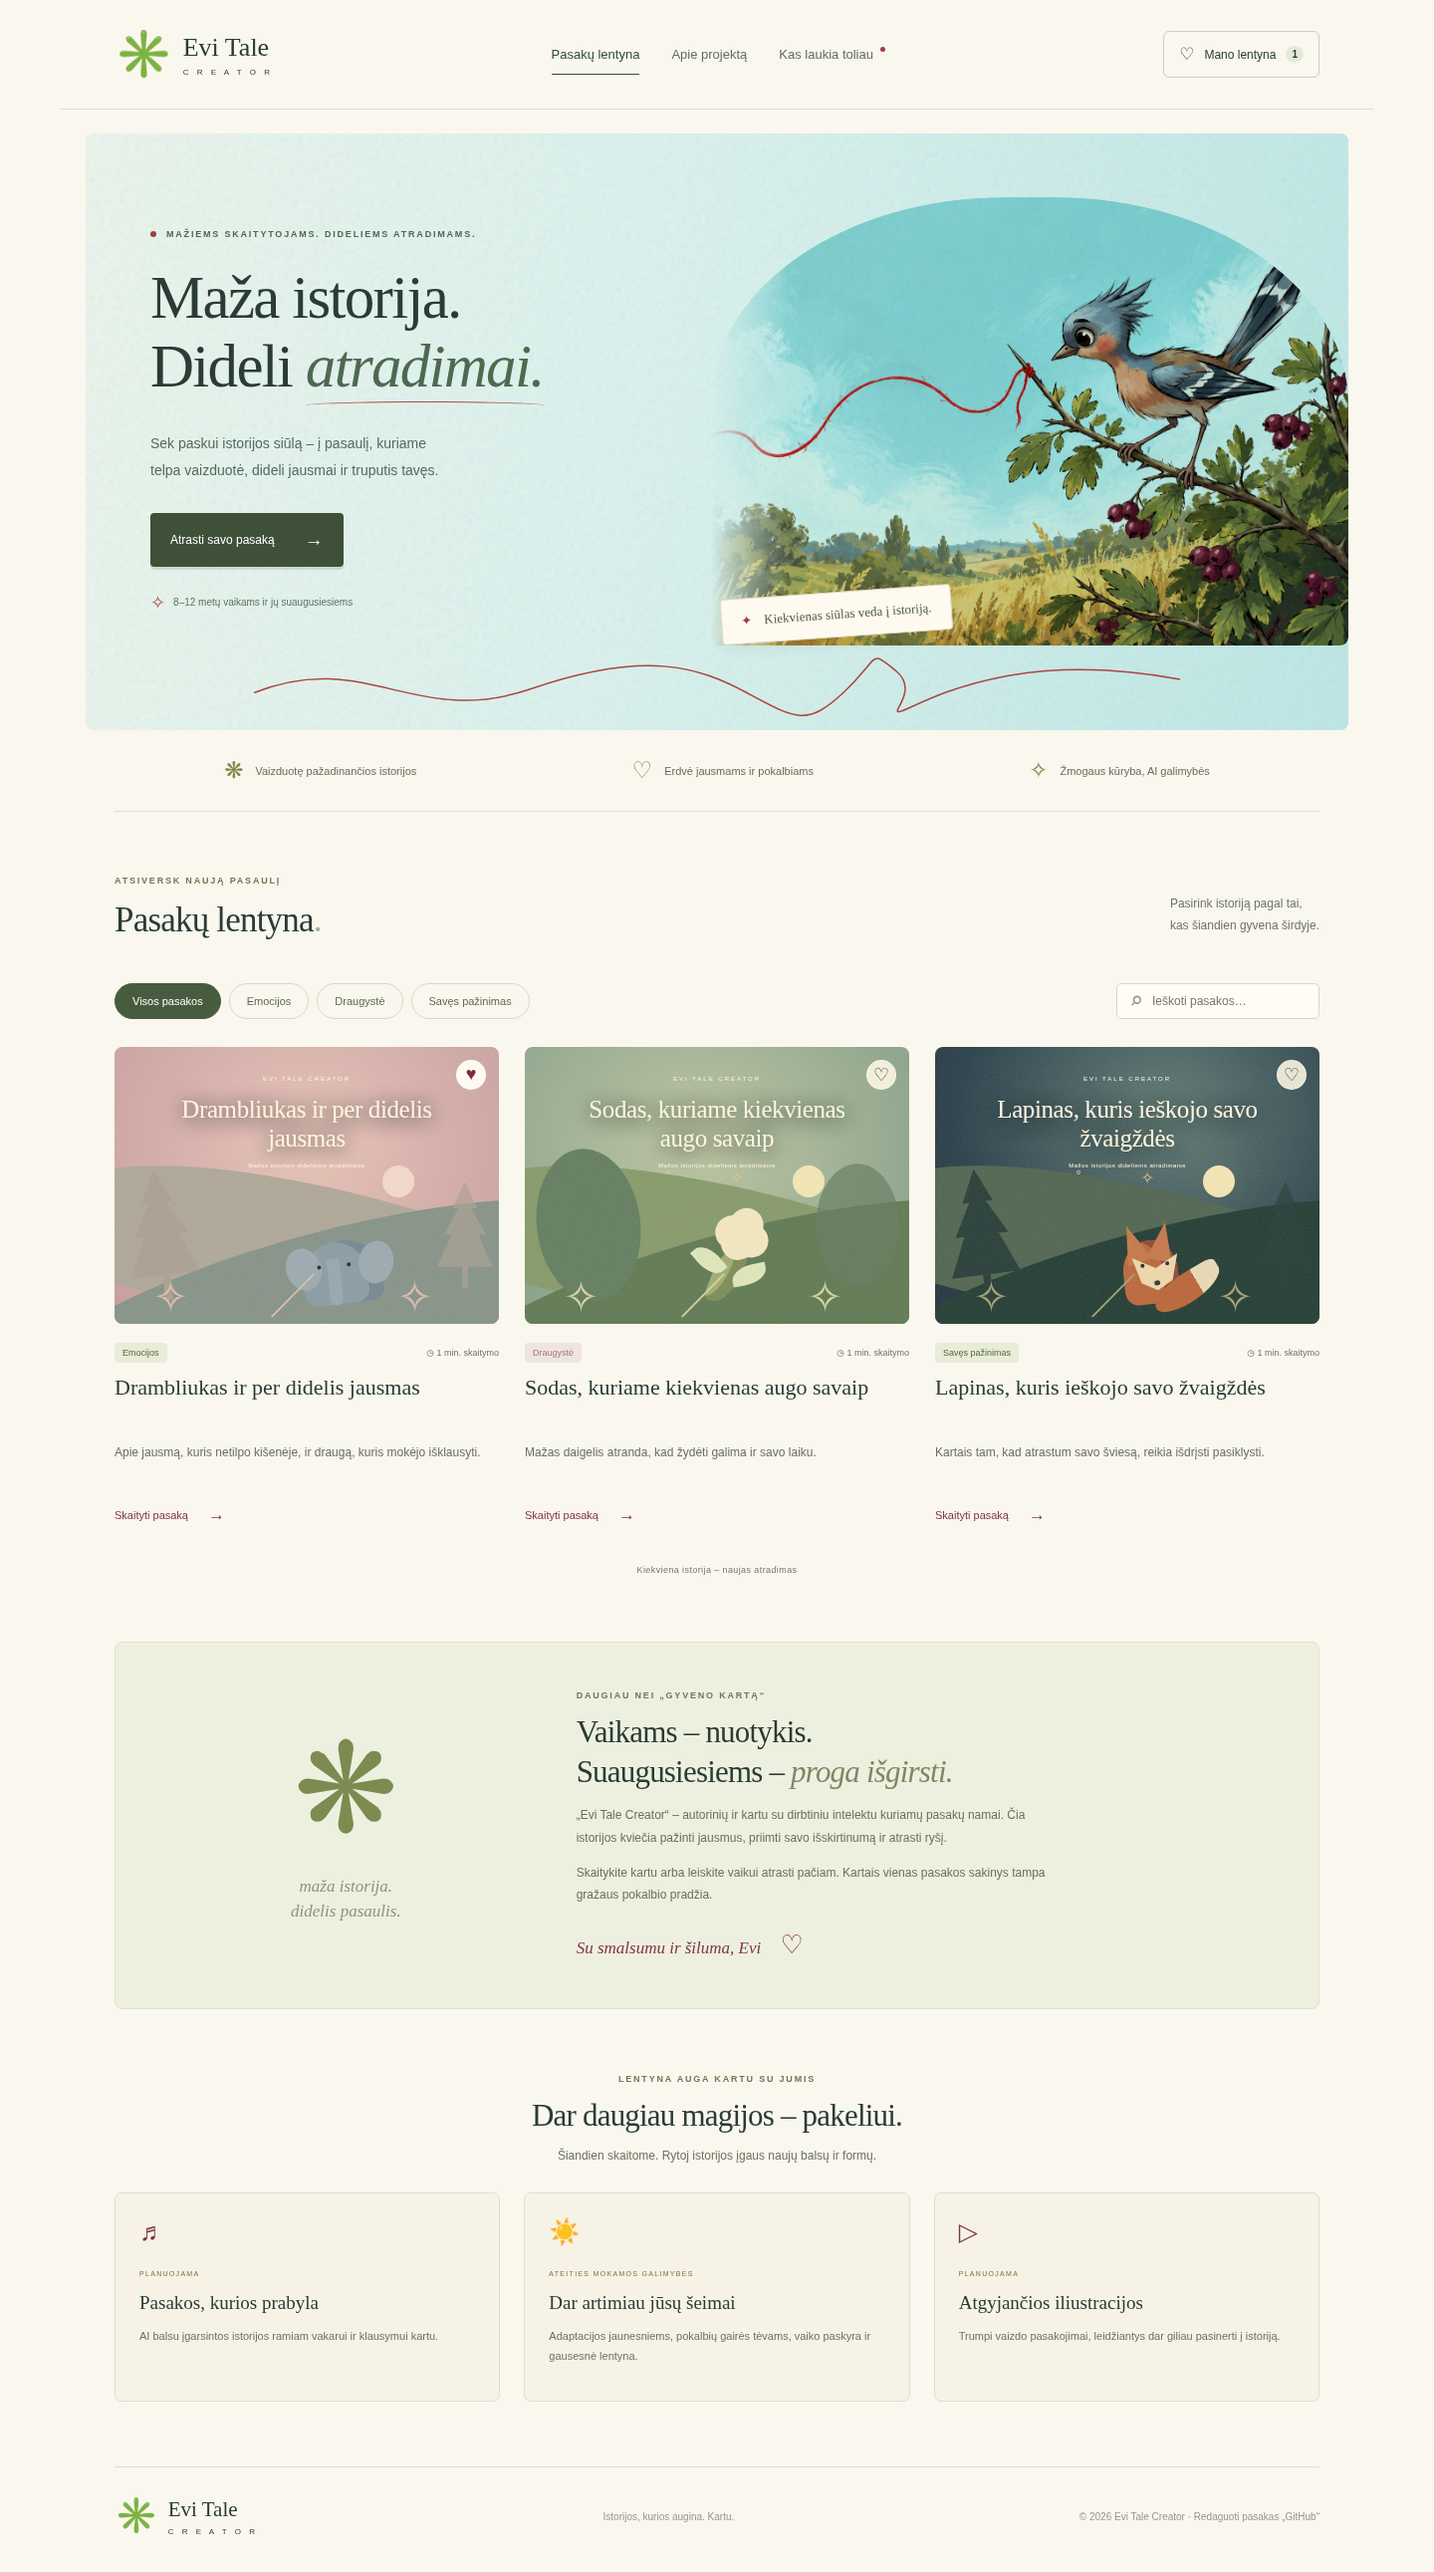
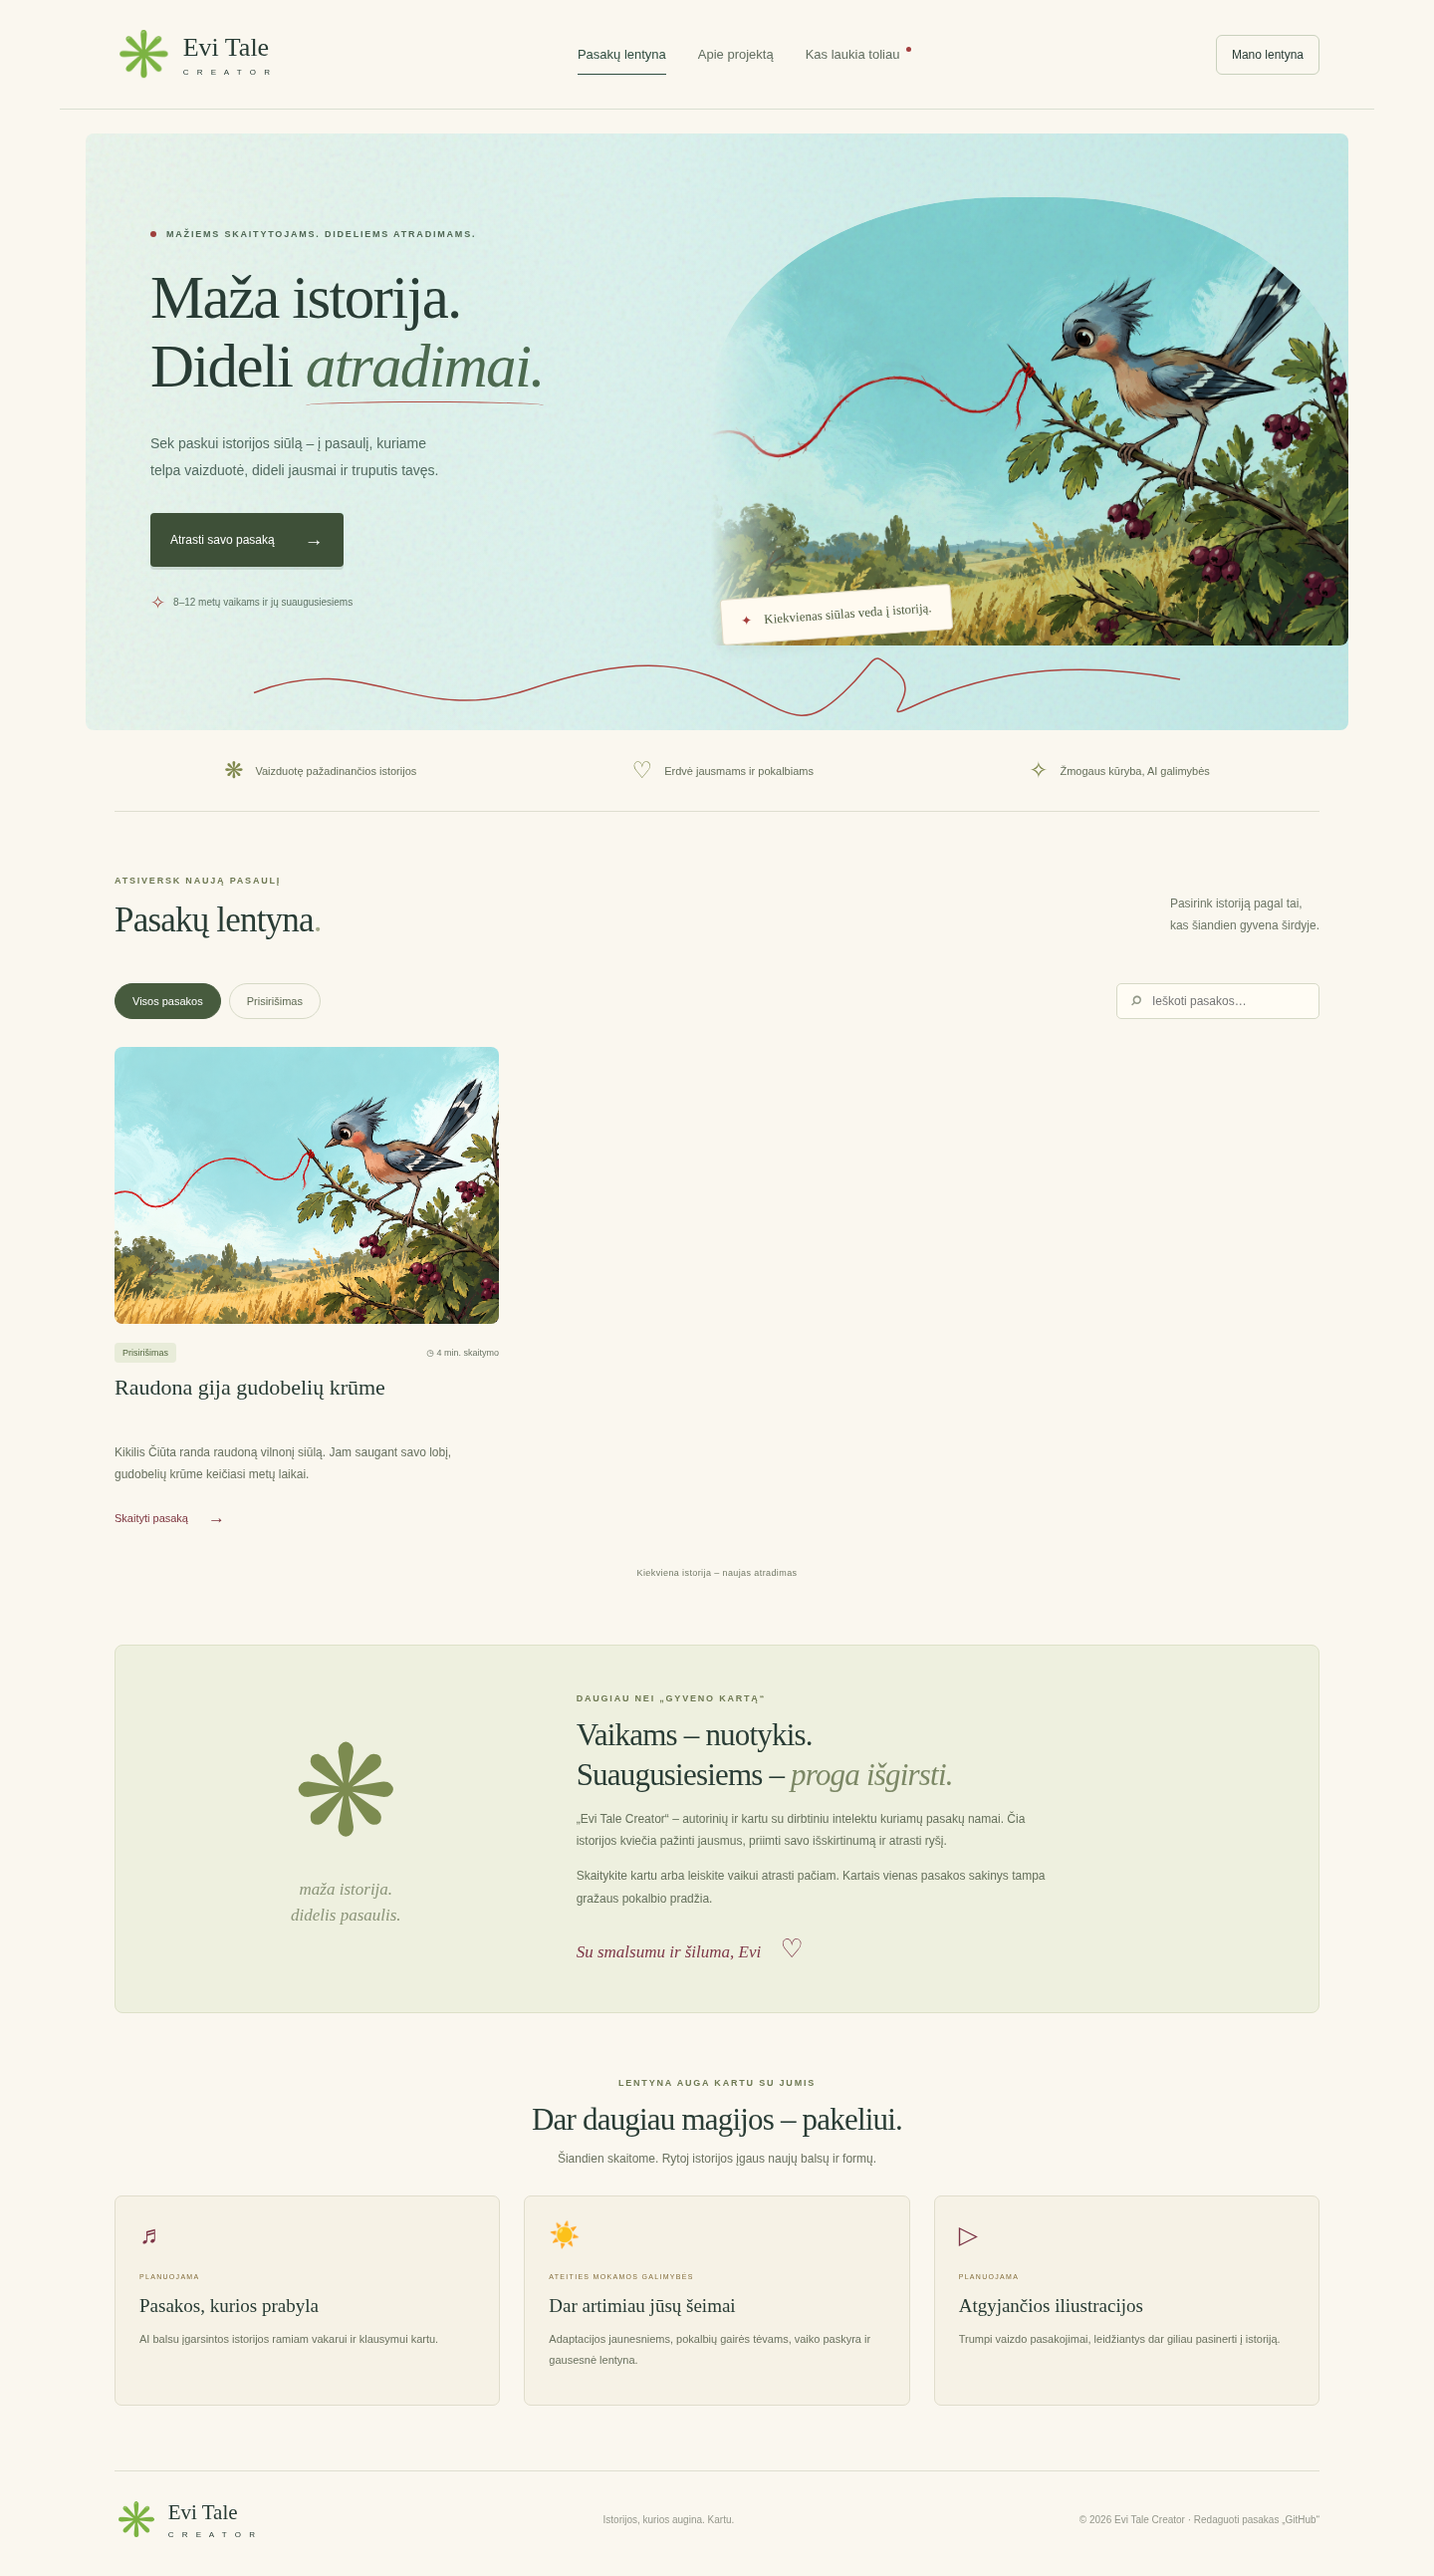
Replace demo tales with Raudona gija gudobelių krūme

diff --git a/src.js b/src.js
@@ -30,7 +30,7 @@ document.addEventListener('click',e=>{
 });
 document.querySelector('#search').addEventListener('input',e=>{query=e.target.value;render();});
 const dialog=document.querySelector('#reader');dialog.addEventListener('click',e=>{if(e.target===dialog)dialog.close();});
-function openStory(id){const s=stories.find(s=>s.id===id);document.querySelector('#reader-content').innerHTML=`<button class="close" id="close-reader" aria-label="Uždaryti pasaką">×</button><div class="reader-heading">${cover(s)}<span class="eyebrow">${esc(s.topic)} · 8–12 metų · ${s.time} min.</span><h2>${esc(s.title)}</h2><p class="demo-label">${s.sample ? 'Pavyzdinė pasaka · Evi Tale Creator prototipas' : 'Evi Tale Creator · Pasaka jūsų šeimai'}</p></div><div class="story-text">${s.body.map(p=>`<p>${esc(p)}</p>`).join('')}<div class="story-end">✧</div><details><summary>Suaugusiesiems: tarp pasakos eilučių</summary><p>${esc(s.note)}</p><p>Galite paklausti: „Kuri istorijos vieta tau įsiminė?“ Atsakymo skubinti nereikia.</p></details><p class="audio-note">♬ Įgarsinimas planuojamas. Šiuo metu pasaką galima skaityti.</p></div>`;dialog.showModal();dialog.scrollTop=0;}
+function openStory(id){const s=stories.find(s=>s.id===id);document.querySelector('#reader-content').innerHTML=`<button class="close" id="close-reader" aria-label="Uždaryti pasaką">×</button><div class="reader-heading">${cover(s)}<span class="eyebrow">${esc(s.topic)} · 8–12 metų · ${s.time} min.</span><h2>${esc(s.title)}</h2><p class="demo-label">${s.sample ? 'Pavyzdinė pasaka · Evi Tale Creator prototipas' : 'Evi Tale Creator · Pasaka jūsų šeimai'}</p></div><div class="story-text">${s.body.map(p=>`<p>${esc(p)}</p>`).join('')}<div class="story-end">✧</div>${s.note?`<details><summary>Suaugusiesiems: tarp pasakos eilučių</summary><p>${esc(s.note)}</p><p>Galite paklausti: „Kuri istorijos vieta tau įsiminė?“ Atsakymo skubinti nereikia.</p></details>`:''}<p class="audio-note">♬ Įgarsinimas planuojamas. Šiuo metu pasaką galima skaityti.</p></div>`;dialog.showModal();dialog.scrollTop=0;}
 async function loadStories() {
  try {
   const response=await fetch(editorMode?'/api/stories':asset('stories.json'));

diff --git a/content/stories/raudona-gija-gudobeliu-krume.md b/content/stories/raudona-gija-gudobeliu-krume.md
@@ -1,0 +1,37 @@
+---
+id: raudona-gija-gudobeliu-krume
+title: Raudona gija gudobelių krūme
+topic: Prisirišimas
+status: published
+color: garden
+sample: false
+image: illustrations/red-thread-bird.png
+imageAlt: Paukštelis ant gudobelės šakos greta raudono vilnonio siūlo.
+desc: Kikilis Čiūta randa raudoną vilnonį siūlą. Jam saugant savo lobį, gudobelių krūme keičiasi metų laikai.
+---
+
+Kikilis Čiūta turėjo keistą pomėgį – jis rinkdavo ant žievės sustingusius gintarinius sakų lašelius ir dėliodavo juos ant lizdo krašto, kad rytais per juos lūžtų saulės šviesa. Tačiau tą rugpjūčio popietę, kai vėjas pirmąkart atsiduso šaltu rūku, Čiūta rado kai ką geresnio. Tarp dygliuotų gudobelės šakų plevėsavo raudonas vilnonis siūlas.
+
+Jis buvo toks šiltas, tarsi savyje vis dar laikytų vasaros kaitrą, ir kvepėjo dūmais bei avies vilna. Įpynęs siūlą į lizdo dugną, paukštelis pajuto, kaip krūtinėje nutyla neramus virpulys. Kai prisiglausdavo prie raudonos gijos, net vėstantys vakarai atrodydavo nebaisūs.
+
+Rugsėjį gudobelės uogos prisirpo ir tapo tamsios lyg sukrešėjęs kraujas. Kiti kikiliai jau būriavosi aukštai beržų viršūnėse, čiauškėdami apie tolimus pietų miškus.
+
+– Čiūta, skrendam prie upelio! – vieną rytą pašaukė jo draugė Guoda, snapu vikriai gliaudydama kankorėžį. – Ten šiandien pilna saldžių uodų, o vanduo dar šiltas!
+
+Čiūta jau sujudino sparnus, bet žvilgtelėjo žemyn. Vėjas kedeno lizdo kraštą, ir raudonas siūlas krustelėjo. O jeigu, kol jis maudysis, atskris kėkštas ir ištemps jo lobį?
+
+– Man čia geriau matosi musės, – pamelavo Čiūta ir snapu stipriau įspraudė siūlo galą tarp sausų smilgų.
+
+Guoda tik gūžtelėjo pečiais ir nuplasnojo viena. Čiūta palydėjo ją akimis, nurydamas seilę, – jis taip mėgo taškytis seklumoje, kad vandens lašai net ant uodegos džiūdami kutendavo. Tačiau palikti lizdą dabar atrodė pernelyg pavojinga. Kad vėjas siūlo neišpūstų, kitą dieną Čiūta vieną jo galą kuo tvirčiau apsuko aplink dygliuotą gudobelės šaką.
+
+Atėjo spalis, paskui – lapkritis. Krūmas nuplikęs sujuodo, o lizdas nuo šalnų ir rūko pasidarė kietas bei šaltas. Čiūta neberinko sakų – jie visi nukrito į purvą. Jis nebeskrido net iki artimiausios pušies, tik tupėjo susigūžęs, snapu nuolat taisydamas raudonąjį turtą. Siūlas nuo drėgmės pajuodo, susivėlė, bet Čiūtai vis dar atrodė, kad be jo šaltis persmelks iki pat kaulų. Būriai seniai išskrido, ir krūme liko tik vėjo švilpimas.
+
+Tą vakarą dangus tarsi nusileido žemai. Pakilo vėtra. Šakos ėmė blaškytis, daužydamos lizdą. Čiūta išsigandęs pasimuistė ir bandė pakilti, bet jam neramiai tupinėjant laisvasis siūlo galas apsivijo jo kairę kojelę. Paukštelis trūktelėjo. Šlapia vilna, užuot pasidavusi, stipriau susiveržė aplink ploną blauzdelę.
+
+Lietus pliūptelėjo ledinėmis čiurkšlėmis. Vėjo gūsis kilstelėjo lizdą ir bloškė jį žemyn. Čiūta suspurdėjo, desperatiškai plakdamas sparnais, bet kiekvienas trūktelėjimas tik dar labiau veržė kilpą. Antrasis siūlo galas laikėsi tvirtai prikabintas prie dygliuotos šakos.
+
+Staiga lizdas persivertė. Sunkus, permirkęs samanų ir šakelių gniužulas užgriuvo tiesiai ant paukščio, prispausdamas jį prie dygliuotų šakų. Šaltis ir tamsa užėmė kvapą. Kojelę nudiegė aštrus skausmas, paskui viskas aptirpo.
+
+Ir tada Čiūta iš paskutiniųjų suplakė sparnais. Jam pasirodė, kad pasigirdo tylus pokštelėjimas – tarsi trūktų įtempta styga. Sunkumas dingo. Paukštelis lengvai šovė į viršų, pro šlapias šakas, tiesiai į juodus debesis. Jis kilo vis aukščiau, nejausdamas nei vėjo, nei šlapdribos, kol galiausiai išniro virš audros. Ten plytėjo vaiskus, žydras dangus, o didelė vasaros saulė šildė pašiauštas plunksnas. Čiūta plačiai išskleidė sparnus ir nuskrido ten, kur kvepėjo sakais ir upelio vandeniu.
+
+O apačioje, po juodais debesimis, vėtra pamažu rimo. Gudobelės krūme, tarp dygliuotų šakų, kabojo apvirtęs, sunkus nuo vandens lizdas. Iš po jo dugno žemyn driekėsi raudonas vilnonis siūlas – tvirtai prikabintas prie šakos ir įsitempęs lyg styga, tarsi apačioje, tamsoje, vis dar kažką laikytų.
